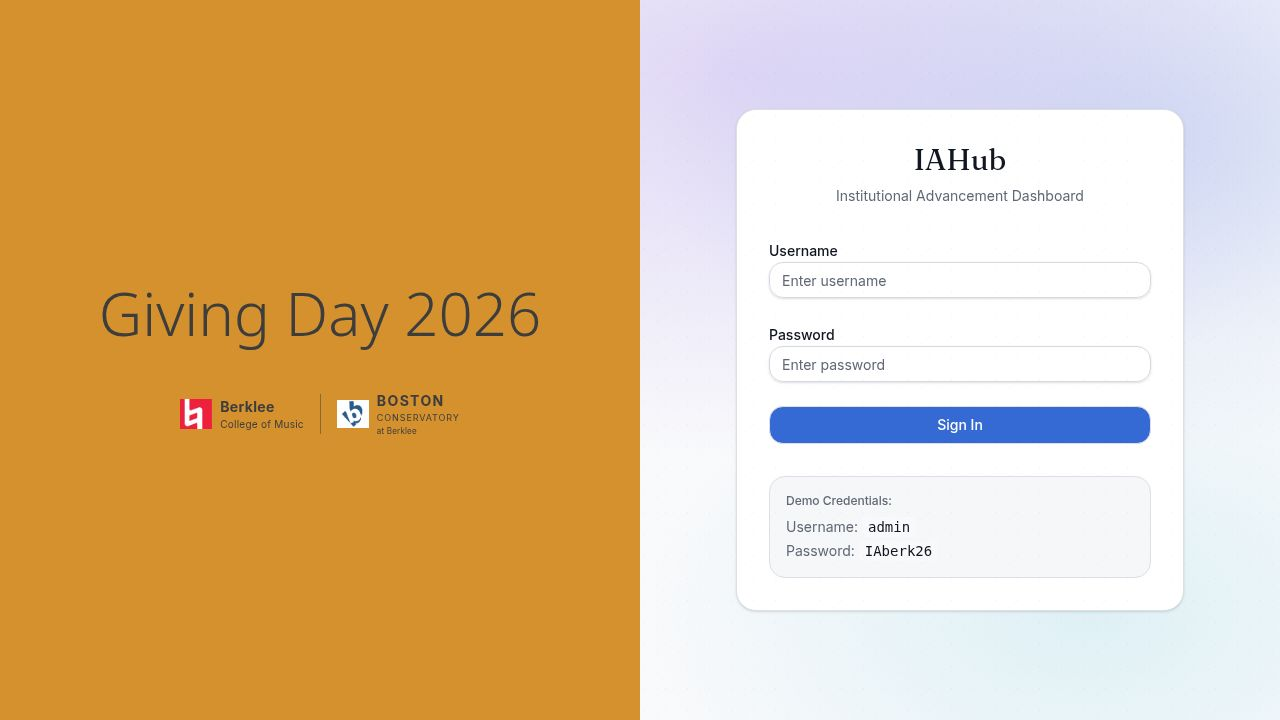
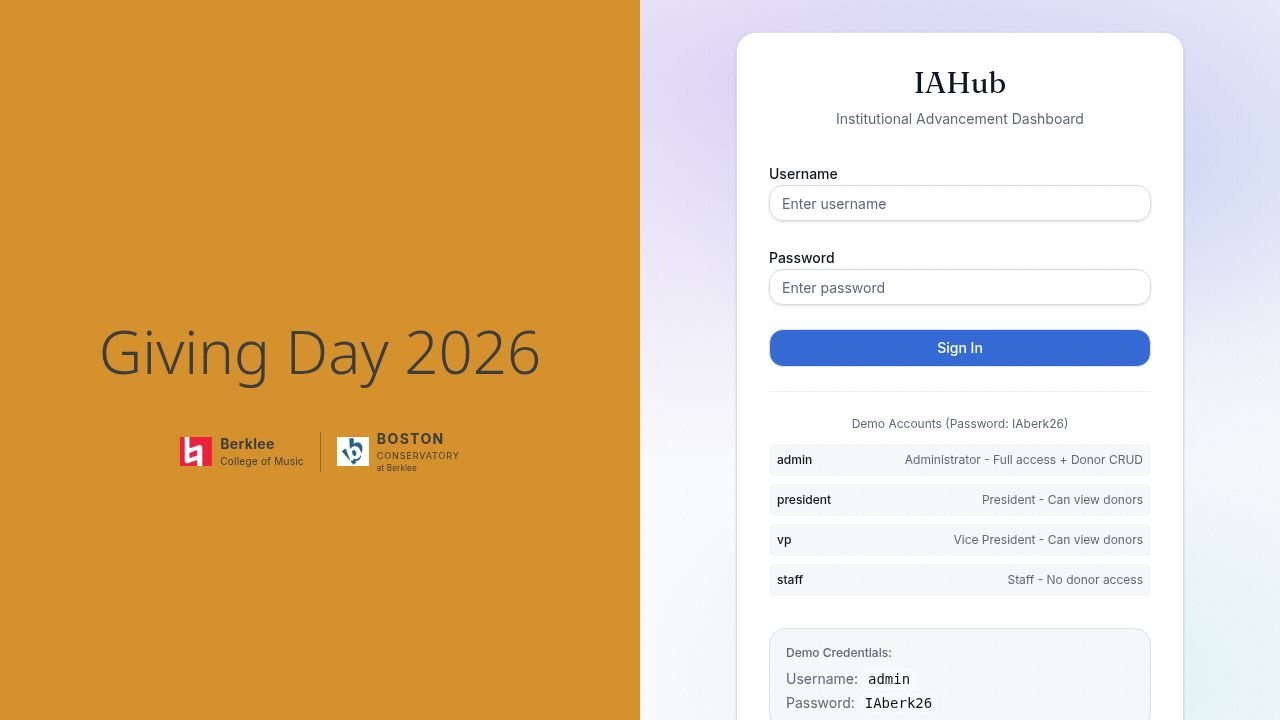
Add logout button to the dashboard header for users
Import the LogOut icon from lucide-react and add a button in the dashboard header that calls the /api/logout endpoint and redirects to the homepage.

Replit-Commit-Author: Agent
Replit-Commit-Session-Id: a7ca619b-c1c8-4fb4-bf8b-e68e46cedc1d
Replit-Commit-Checkpoint-Type: full_checkpoint
Replit-Commit-Event-Id: 326eff0c-6e3d-41bc-a2ca-c26965c84064
Replit-Commit-Screenshot-Url: https://storage.googleapis.com/screenshot-production-us-central1/21ffef7b-8862-4199-bf78-b4cab58d6940/a7ca619b-c1c8-4fb4-bf8b-e68e46cedc1d/HNP1YrF
Replit-Helium-Checkpoint-Created: true

diff --git a/client/src/pages/dashboard.tsx b/client/src/pages/dashboard.tsx
@@ -45,6 +45,7 @@ import {
   Database,
   Edit,
   Flag,
+  LogOut,
   Mail,
   Plus,
   Radar,
@@ -832,6 +833,19 @@ export default function DashboardPage() {
                 >
                   {role === "admin" ? "Admin" : role === "president" ? "President" : role === "vice_president" ? "VP" : "Staff"}
                 </Badge>
+                <Button
+                  variant="ghost"
+                  size="sm"
+                  className="h-8 rounded-full px-3"
+                  onClick={async () => {
+                    await fetch("/api/logout", { method: "POST", credentials: "include" });
+                    window.location.href = "/";
+                  }}
+                  data-testid="button-logout"
+                >
+                  <LogOut className="mr-1.5 h-3.5 w-3.5" aria-hidden="true" />
+                  Logout
+                </Button>
               </div>
             </div>
           </div>
